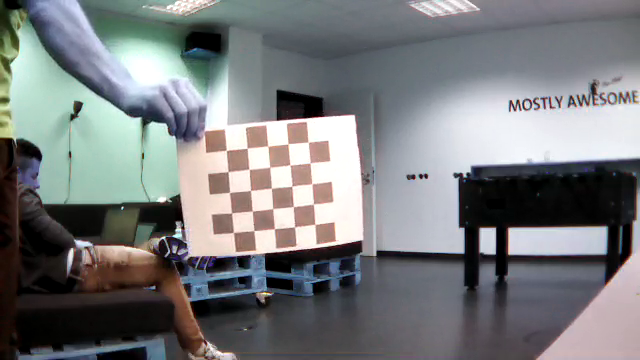
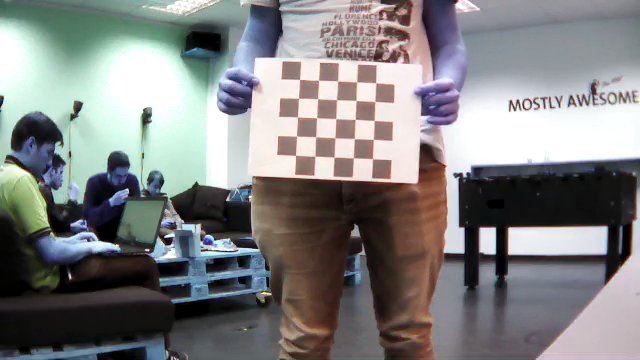
Position und Groesse aus Bild weiterverarbeiten

diff --git a/CentralControl.py b/CentralControl.py
@@ -5,7 +5,7 @@ Created on Wed Aug 10 11:48:48 2016
 @author: Christian
 """
 from PIDController import PID_Controller
-import libardrone
+from libardrone import libardrone
 import patternRecognition 
 import time
 
@@ -29,12 +29,10 @@ class CentralControl(object):
 #    standardXCoordRD=22 #wird wahrscheinlich nicht gebraucht
 #    standardYCoordRD=22 #wird wahrscheinlich nicht gebraucht
     
-    def __init__(self,standardXCoordLU,standardYCoordLU,standardXCoordRD,standardYCoordRD):
-        self.standardXCoordLU=standardXCoordLU
-        self.standardYCoordLU=standardYCoordLU
-        self.standardXCoordRD=standardXCoordRD
-        self.standardYCoordRD=standardYCoordRD
-        self.standardSize=self.computeSize(standardXCoordLU,standardYCoordLU,standardXCoordRD,standardYCoordRD)
+    def __init__(self,standardXCoord,standardYCoord,standardSize):
+        self.standardXCoord=standardXCoord
+        self.standardYCoord=standardYCoord
+        self.standardSize=standardSize
         
     
     #Image Recognition returns left upper corner coordinates and right downer corner coordinates
@@ -59,15 +57,17 @@ class CentralControl(object):
             if not(xlu==-1 and ylu==-1 and xrd==-1 and yrd==-1):    
             # computeSize
                 currentsize=self.computeSize(xlu,ylu,xrd,yrd)
+                xAvg = (xlu+xrd)/2.0
+                yAvg = (ylu+yrd)/2.0
             # call PIDController
-                x_PIDValue=self.x_PIDController.pidControl(self.standardXCoordLU,xlu)
-                y_PIDValue=self.y_PIDController.pidControl(self.standardYCoordLU,ylu)
+                x_PIDValue=self.x_PIDController.pidControl(self.standardXCoord,xAvg)
+                y_PIDValue=self.y_PIDController.pidControl(self.standardYCoord,yAvg)
                 bf_PIDValue=self.bf_PIDController.pidControl(self.standardSize,currentsize)
             # Actuate
                 self.actuateX(x_PIDValue)
                 self.actuateY(y_PIDValue)
                 self.actuateBF(bf_PIDValue)
-            
+                break
             else:
                 #drone.hover()
                 pass
@@ -94,7 +94,7 @@ class CentralControl(object):
         pass
         
 
-control=CentralControl(50,50,300,300)
+control=CentralControl(320,180,115)
 control.controlLoop()
         
         

diff --git a/patternRecognition.py b/patternRecognition.py
@@ -38,11 +38,14 @@ def cornerPointsChess(img):
         yalt.append(round(corners[NBR_COLUMNS*NBR_ROWS-1][0][1]))
         xalt.append(round(corners[(NBR_COLUMNS-1)*NBR_ROWS][0][0]))
         yalt.append(round(corners[(NBR_COLUMNS-1)*NBR_ROWS][0][1]))    
-        for i in range(0, 3):
+        for i in range(0, 4):
             sumV.append(xalt[i] + yalt[i])
+            print "Sum: "+str(sumV)
         minV = min(sumV)
+        print "Min: "+str(minV)
         maxV = max(sumV)
-        for i in range(0, 3):
+        print "Max: "+str(maxV)
+        for i in range(0, 4):
             if minV==sumV[i]:
                 x1 = xalt[i]; y1 = yalt[i]
             if maxV==sumV[i]:
